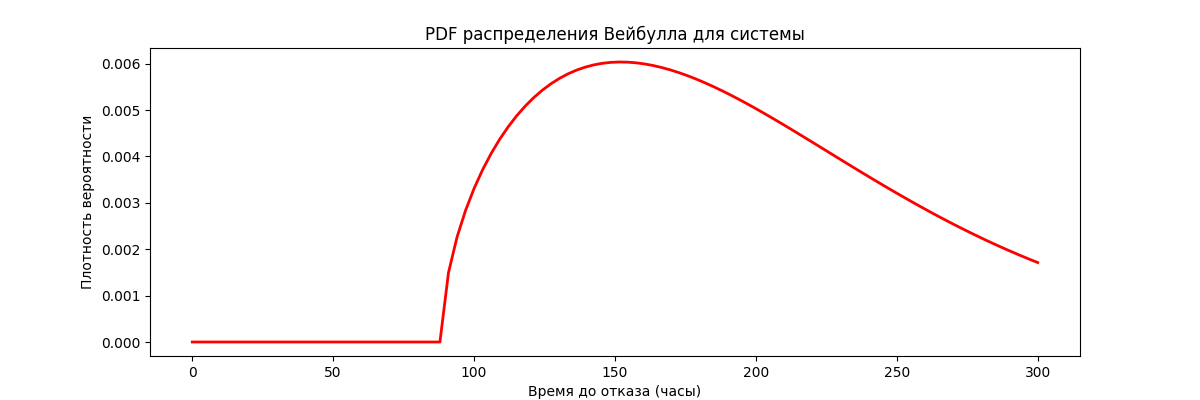
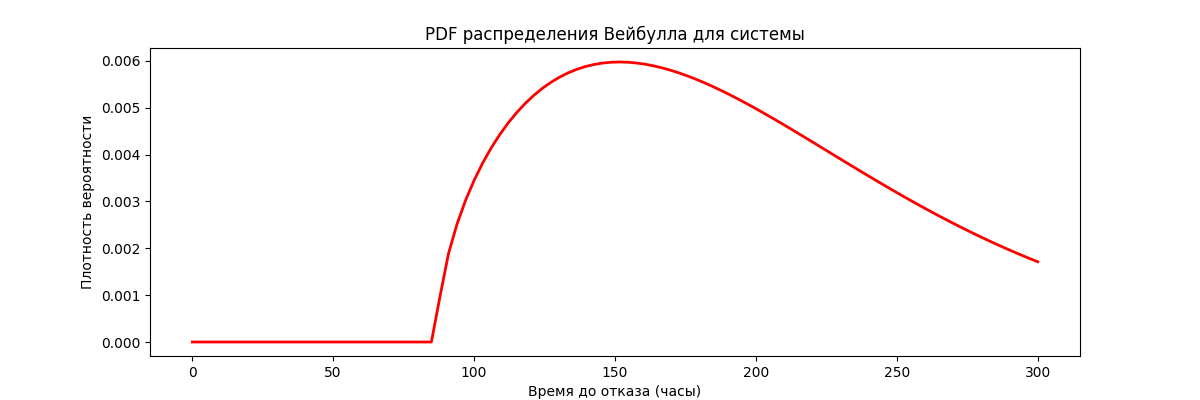
Добавил цены и СЗИ у готовых

diff --git a/templates/ready.html b/templates/ready.html
@@ -264,12 +264,11 @@
                 <div class="popup__title">Описание</div>
                 <div class="popup__text">
                     Крутое КСЗ_1 <br>
-                    Цена: 500.000 Рублей <br>
+                    Цена: 1.170 Рублей <br>
                     СЗИ: <br>
                     <ul>
-                        <li>СЗИ_1</li>
-                        <li>СЗИ_2</li>
-                        <li>СЗИ_3</li>
+                        <li>NordVPN</li>
+                        <li>Dr.Web</li>
                     </ul>
 
                 </div>
@@ -286,12 +285,13 @@
                 <div class="popup__title">Описание</div>
                 <div class="popup__text">
                     Крутое КСЗ_2 <br>
-                    Цена: 50.000 Рублей <br>
+                    Цена: 5.450 Рублей <br>
                     СЗИ: <br>
                     <ul>
-                        <li>СЗИ_1</li>
-                        <li>СЗИ_2</li>
-                        <li>СЗИ_3</li>
+                        <li>Kaspersky Anti-Virus</li>
+                        <li>Surfshark VPN</li>
+                        <li>КриптоАРМ 2.0</li>
+                        <li>Adobe Sign</li>
                     </ul>
 
                 </div>
@@ -308,12 +308,12 @@
                 <div class="popup__title">Описание</div>
                 <div class="popup__text">
                     Крутое КСЗ_3 <br>
-                    Цена: 100.000 Рублей <br>
+                    Цена: 11.550 Рублей <br>
                     СЗИ: <br>
                     <ul>
-                        <li>СЗИ_1</li>
-                        <li>СЗИ_2</li>
-                        <li>СЗИ_3</li>
+                        <li>Secret Net Studio</li>
+                        <li>Secret Disk Enterprise</li>
+                        <li>ЭЦП-Техно</li>
                     </ul>
 
                 </div>
@@ -330,12 +330,13 @@
                 <div class="popup__title">Описание</div>
                 <div class="popup__text">
                     Крутое КСЗ_4 <br>
-                    Цена: 250.000 Рублей <br>
+                    Цена: 18.930 Рублей <br>
                     СЗИ: <br>
                     <ul>
-                        <li>СЗИ_1</li>
-                        <li>СЗИ_2</li>
-                        <li>СЗИ_3</li>
+                        <li>КриптоАРМ</li>
+                        <li>Secret Disk 5</li>
+                        <li>СЗИ от НСД Фантом</li>
+                        <li>ЭЦП-Техно</li>
                     </ul>
 
                 </div>
@@ -352,12 +353,17 @@
                 <div class="popup__title">Описание</div>
                 <div class="popup__text">
                     Крутое КСЗ_5 <br>
-                    Цена: 600.000 Рублей <br>
+                    Цена: 49.263 Рублей <br>
                     СЗИ: <br>
                     <ul>
-                        <li>СЗИ_1</li>
-                        <li>СЗИ_2</li>
-                        <li>СЗИ_3</li>
+                        <li>ViPNet SafeBoot</li>
+                        <li>LogRhythm SIEM</li>
+                        <li>КриптоАРМ 2.0</li>
+                        <li>Континент АП</li>
+                        <li>Kaspersky Internet Security</li>
+                        <li>Kaspersky Anti-Virus</li>
+                        <li>Secret Disk 5</li>
+                        <li>КриптоГОСТ</li>
                     </ul>
 
                 </div>
@@ -375,14 +381,16 @@
                 <div class="popup__text">
                     <h3>ВирусСтоп</h3>
                     <p>Комплекс средств защиты "ВирусСтоп" обеспечивает гарантированную защиту против вирусных атак</p>
-                    Цена: 750.000 Рублей <br>
+                    Цена: 76.590 Рублей <br>
                     Обеспечение надежности: 1000000% <br>
                     СЗИ: <br>
                     <ul>
-                        <li><b>Kaspersky Anti-Virus </b> - для предотвращения вирусных атак</li>
-                        <li><b>MaxPatrol SIEM </b>-  для мониторинга событий информационной системы</li>
-                        <li><b>«КАРМА» </b>- для  обеспечения конфидициальности электронного документа</li>
-                        <li><b>Континент АП </b>- для функционирования межсетевого экранирования</li>
+                        <li><b>ViPNet SafeBoot </b> - для предотвращения вирусных атак</li>
+                        <li><b>Fortinet FortiSIEM </b>-  для мониторинга событий информационной системы</li>
+                        <li><b>Secret Disk Enterprise </b>- для  обеспечения конфидициальности электронного документа</li>
+                        <li><b>Traffic Inspector Next Generation </b>- для функционирования межсетевого экранирования</li>
+                        <li>Dr.Web</li>
+                        <li>СЗИ от НСД Фантом</li>
                     </ul>
                 </div>
             </div>
@@ -398,12 +406,17 @@
                 <div class="popup__title">Описание</div>
                 <div class="popup__text">
                     Крутое КСЗ_7 <br>
-                    Цена: 850.000 Рублей <br>
+                    Цена: 90.759 Рублей <br>
                     СЗИ: <br>
                     <ul>
-                        <li>СЗИ_1</li>
-                        <li>СЗИ_2</li>
-                        <li>СЗИ_3</li>
+                        <li>КриптоПро PDF</li>
+                        <li>КриптоГОСТ</li>
+                        <li>Secret Disk 5</li>
+                        <li>Блокхост-Сеть</li>
+                        <li>Fortinet FortiSIEM</li>
+                        <li>Secret Disk Enterprise</li>
+                        <li>TrustAccess</li>
+                        <li>Kaspersky Internet Security</li>
                     </ul>
 
                 </div>
@@ -420,12 +433,19 @@
                 <div class="popup__title">Описание</div>
                 <div class="popup__text">
                     Крутое КСЗ_8 <br>
-                    Цена: 900.000 Рублей <br>
+                    Цена: 126.314 Рублей <br>
                     СЗИ: <br>
                     <ul>
-                        <li>СЗИ_1</li>
-                        <li>СЗИ_2</li>
-                        <li>СЗИ_3</li>
+                        <li>SignPro</li>
+                        <li>Secret Disk 5</li>
+                        <li>ПАК «Аккорд-В.»</li>
+                        <li>КриптоАРМ</li>
+                        <li>ViPNet SafeBoot</li>
+                        <li>Fortinet FortiSIEM</li>
+                        <li>Secret Disk Enterprise</li>
+                        <li>TrustAccess</li>
+                        <li>Kaspersky Anti-Virus</li>
+                        <li>TrustAccess</li>
                     </ul>
 
                 </div>
@@ -443,15 +463,16 @@
                 <div class="popup__text">
                     <h3>ШифрЗона</h3>
                     <p>Комплекс средств защиты "ШифрЗона" ориентирован на поддержание криптографической защиты на заданном уровне </p>
-                    Цена: 150.000 Рублей <br>
+                    Цена: 204.920 Рублей <br>
                     Обеспечение надежности: 1000000% <br>
                     СЗИ: <br>
                     <ul>
-                        <li><b>Secret Disk Enterprise </b> - для создания и поддержания криптографической защиты</li>
-                        <li><b>LogRhythm SIEM </b>-  для мониторинга событий информационной системы</li>
-                        <li><b>Secret Disk 5 </b>- для подтверждения авторства электронного документа с помощью криптографического ключа</li>
-                        <li><b>ПАК "«Аккорд-В" </b>- для аунтификации пользователей и разделения доступа</li>
-                        <li><b>Secret Net Studio </b>- для контроля целостности используемого ПО</li>
+                        <li>SignPro</li>
+                        <li>EDSIGN</li>
+                        <li>Secret Disk 5</li>
+                        <li>Блокхост-Сеть</li>
+                        <li>ViPNet SafeBoot</li>
+                        <li>Fortinet FortiSIEM</li>
                     </ul>
 
                 </div>
@@ -468,12 +489,19 @@
                 <div class="popup__title">Описание</div>
                 <div class="popup__text">
                     <p>Комплекс средств защиты "Гардалиан" обеспечивает наилучшую надежность в показателе цена-надежность. </p>
-                    Цена: 300.000 Рублей <br>
+                    Цена: 586.980 Рублей <br>
                     СЗИ: <br>
                     <ul>
-                        <li>СЗИ_1</li>
-                        <li>СЗИ_2</li>
-                        <li>СЗИ_3</li>
+                        <li>ПАК «Соболь»</li>
+                        <li>Secret Disk 5</li>
+                        <li>«КАРМА»</li>
+                        <li>SignPro</li>
+                        <li>ПМ «Паспорт ПО»</li>
+                        <li>MaxPatrol SIEM</li>
+                        <li>Палиндром</li>
+                        <li>ALTELL NEO</li>
+                        <li>Kaspersky Internet Security</li>
+                        <li>Norton 360</li>
                     </ul>
                 </div>
             </div>
@@ -481,27 +509,6 @@
     </div>
     <!-- !!! -->
 
-    <!-- СЗИ_11 -->
-    <div id="description_ksz_11" class="popup">
-        <div class="popup__body">
-            <div class="popup__content">
-                <a href="#" class="popup__close">X</a>
-                <div class="popup__title">Описание</div>
-                <div class="popup__text">
-                    Крутое КСЗ_11 <br>
-                    Цена: 980.000 Рублей <br>
-                    СЗИ: <br>
-                    <ul>
-                        <li>СЗИ_1</li>
-                        <li>СЗИ_2</li>
-                        <li>СЗИ_3</li>
-                    </ul>
-
-                </div>
-            </div>
-        </div>
-    </div>
-    <!-- !!! -->
 </form>
 
 

diff --git a/ex.py b/ex.py
@@ -13,25 +13,40 @@ data_system = data_antivirus + data_firewall
 shape_system, loc_system, scale_system = weibull_min.fit(data_system, loc=0)
 
 # Генерируем данные для графика PDF для системы
-x_system = np.linspace(0, max(data_system), 100)
+x_system = np.linspace(0, max(data_system) + 100, 1000)  # Расширяем диапазон для учета восстановления
 pdf_system = weibull_min.pdf(x_system, shape_system, loc_system, scale_system)
 
-# График PDF распределения Вейбулла для системы
+# Генерируем периодические данные для графика PDF
+period = 100  # Периодичность восстановления
+pdf_periodic = np.zeros_like(pdf_system)
+
+for i, x in enumerate(x_system):
+    if i % period == 0:
+        pdf_periodic[i:i + period] = pdf_system[i % len(pdf_system):i % len(pdf_system) + period]
+
+# График PDF распределения Вейбулла для системы с учетом времени восстановления
 plt.figure(figsize=(12, 4))
 plt.subplot(1, 2, 1)
-plt.plot(x_system, pdf_system, 'r-', lw=2)
-plt.xlabel('Время до отказа (часы)')
+plt.plot(x_system, pdf_periodic, 'r-', lw=2)
+plt.xlabel('Время (часы)')
 plt.ylabel('Плотность вероятности')
-plt.title('PDF распределения Вейбулла для системы')
+plt.title('PDF распределения Вейбулла для системы (с учетом восстановления)')
 
 # График функции надежности для системы (Survival Function)
 sf_system = 1 - weibull_min.cdf(x_system, shape_system, loc_system, scale_system)
 
+# Генерируем периодические данные для графика Survival Function
+sf_periodic = np.zeros_like(sf_system)
+
+for i, x in enumerate(x_system):
+    if i % period == 0:
+        sf_periodic[i:i + period] = sf_system[i % len(sf_system):i % len(sf_system) + period]
+
 plt.subplot(1, 2, 2)
-plt.plot(x_system, sf_system, 'b-', lw=2)
-plt.xlabel('Время до отказа (часы)')
+plt.plot(x_system, sf_periodic, 'b-', lw=2)
+plt.xlabel('Время (часы)')
 plt.ylabel('Функция надежности')
-plt.title('График функции надежности для системы')
+plt.title('График функции надежности для системы (с учетом восстановления)')
 
 plt.tight_layout()
 plt.show()

diff --git a/SZI_INFO.py b/SZI_INFO.py
@@ -46,7 +46,7 @@ SZI_models = [
     ['LogRhythm SIEM', '11783', ['Управление журналами', 'Мониторинг', 'Расследование инцидента'], '0.26'],
     ['Платформа мониторинга ИБ Visor', '1000000', ['Расследование инцидента', 'Поиск и корреляция событий'], '0.95'],
     ['Fortinet FortiSIEM', '28540', ['Обработка событий', 'Совместимость с системами безопасности и API-поставщиками', 'Уведомление и управление инцидентами', 'Интеграция внешних технологий'], '0.43'],
-    ['MaxPatrol SIEM', '300000', ['Обнаружение продвинутых атак на Active Directory', 'Аномалия в активности пользователей', 'Атаки с тактиками по модели MITRE ATT&CK', 'Аномалия при удаленной работе'], '0.87'],
+    ['MaxPatrol SIEM', '100000', ['Обнаружение продвинутых атак на Active Directory', 'Аномалия в активности пользователей', 'Атаки с тактиками по модели MITRE ATT&CK', 'Аномалия при удаленной работе'], '0.87'],
     ['СёрчИнформ SIEM', '300000', ['Обработка событий', 'Нормализация инцидентов', 'Управление данными корреляции'], '0.76'],
     # СЗИ 7
     ['Secret Disk Enterprise', '3500', ['Защита от анализа, восстановления и расшифрования данных при несанкционированном доступе к ним', 'Создание шифрованных файл-контейнеров', 'Шифрование файлов', 'Применение криптографии', 'Управление сетевым доступом', 'Обеспечение полнодискового шифрования'], '0.26'],

diff --git a/graph.py b/graph.py
@@ -4,7 +4,7 @@ from scipy.stats import weibull_min
 from SZI_INFO import data_szi
 
 data_system = []
-
+data_recovery = [100, 150, 50, 200]
 
 def data(data_array):
     global data_system
@@ -16,13 +16,15 @@ def data(data_array):
     print('#####################################')
     print(data_system)
     # Объединяем данные времени до отказа для обоих компонентов
-
+    # Сглаживаем данные с использованием медианных значений
+    data_system = [value for value in data_system if np.isfinite(value)]
+    data_recovery = [value for value in data_recovery if np.isfinite(value)]
 
     # Оцениваем параметры распределения Вейбулла для системы
     shape_system, loc_system, scale_system = weibull_min.fit(data_system, loc=0)
 
     # Генерируем данные для графика PDF для системы
-    x_system = np.linspace(0, max(data_system), 100)
+    x_system = np.linspace(0, max(data_system) + max(data_recovery), 100)
     pdf_system = weibull_min.pdf(x_system, shape_system, loc_system, scale_system)
 
     # Сохраняем график PDF распределения Вейбулла для системы
@@ -34,10 +36,8 @@ def data(data_array):
     plt.savefig('static/etc/img/graph1.png')  # Сохраняем график как '/static/img/graph1.png'
     plt.close()  # Закрываем текущий график, чтобы создать следующий
 
-
     # График функции надежности для системы (Survival Function)
     sf_system = 1 - weibull_min.cdf(x_system, shape_system, loc_system, scale_system)
-
 
     # Сохраняем график функции надежности для системы
     plt.figure(figsize=(12, 4))

diff --git a/script.py b/script.py
@@ -1,0 +1,7 @@
+from SZI_INFO import SZI_models
+print(SZI_models[0][0])
+with open('price.txt', 'w') as f:
+    for i in range(len(SZI_models)):
+        f.write(SZI_models[i][0])
+        f.write(f"{SZI_models[i][1]}\n")
+f.close()
